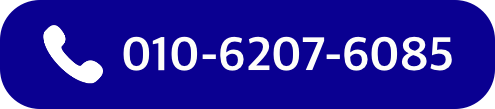
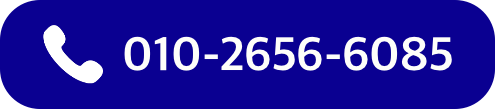
phone number change

Changed region(s): [[0.2424, 0.3303, 0.6667, 0.6606]]

diff --git a/index.html b/index.html
@@ -31,7 +31,7 @@
         <li><strong>스마일카워시</strong></li>
         <li>고객지원</li>
         <br>
-        <a href="tel:010-6207-6085">
+        <a href="tel:010-2656-6085">
             <img src="src/phone.png" alt="전화하기"
                 style="width: 100%; max-width: 150px;">
         </a>
